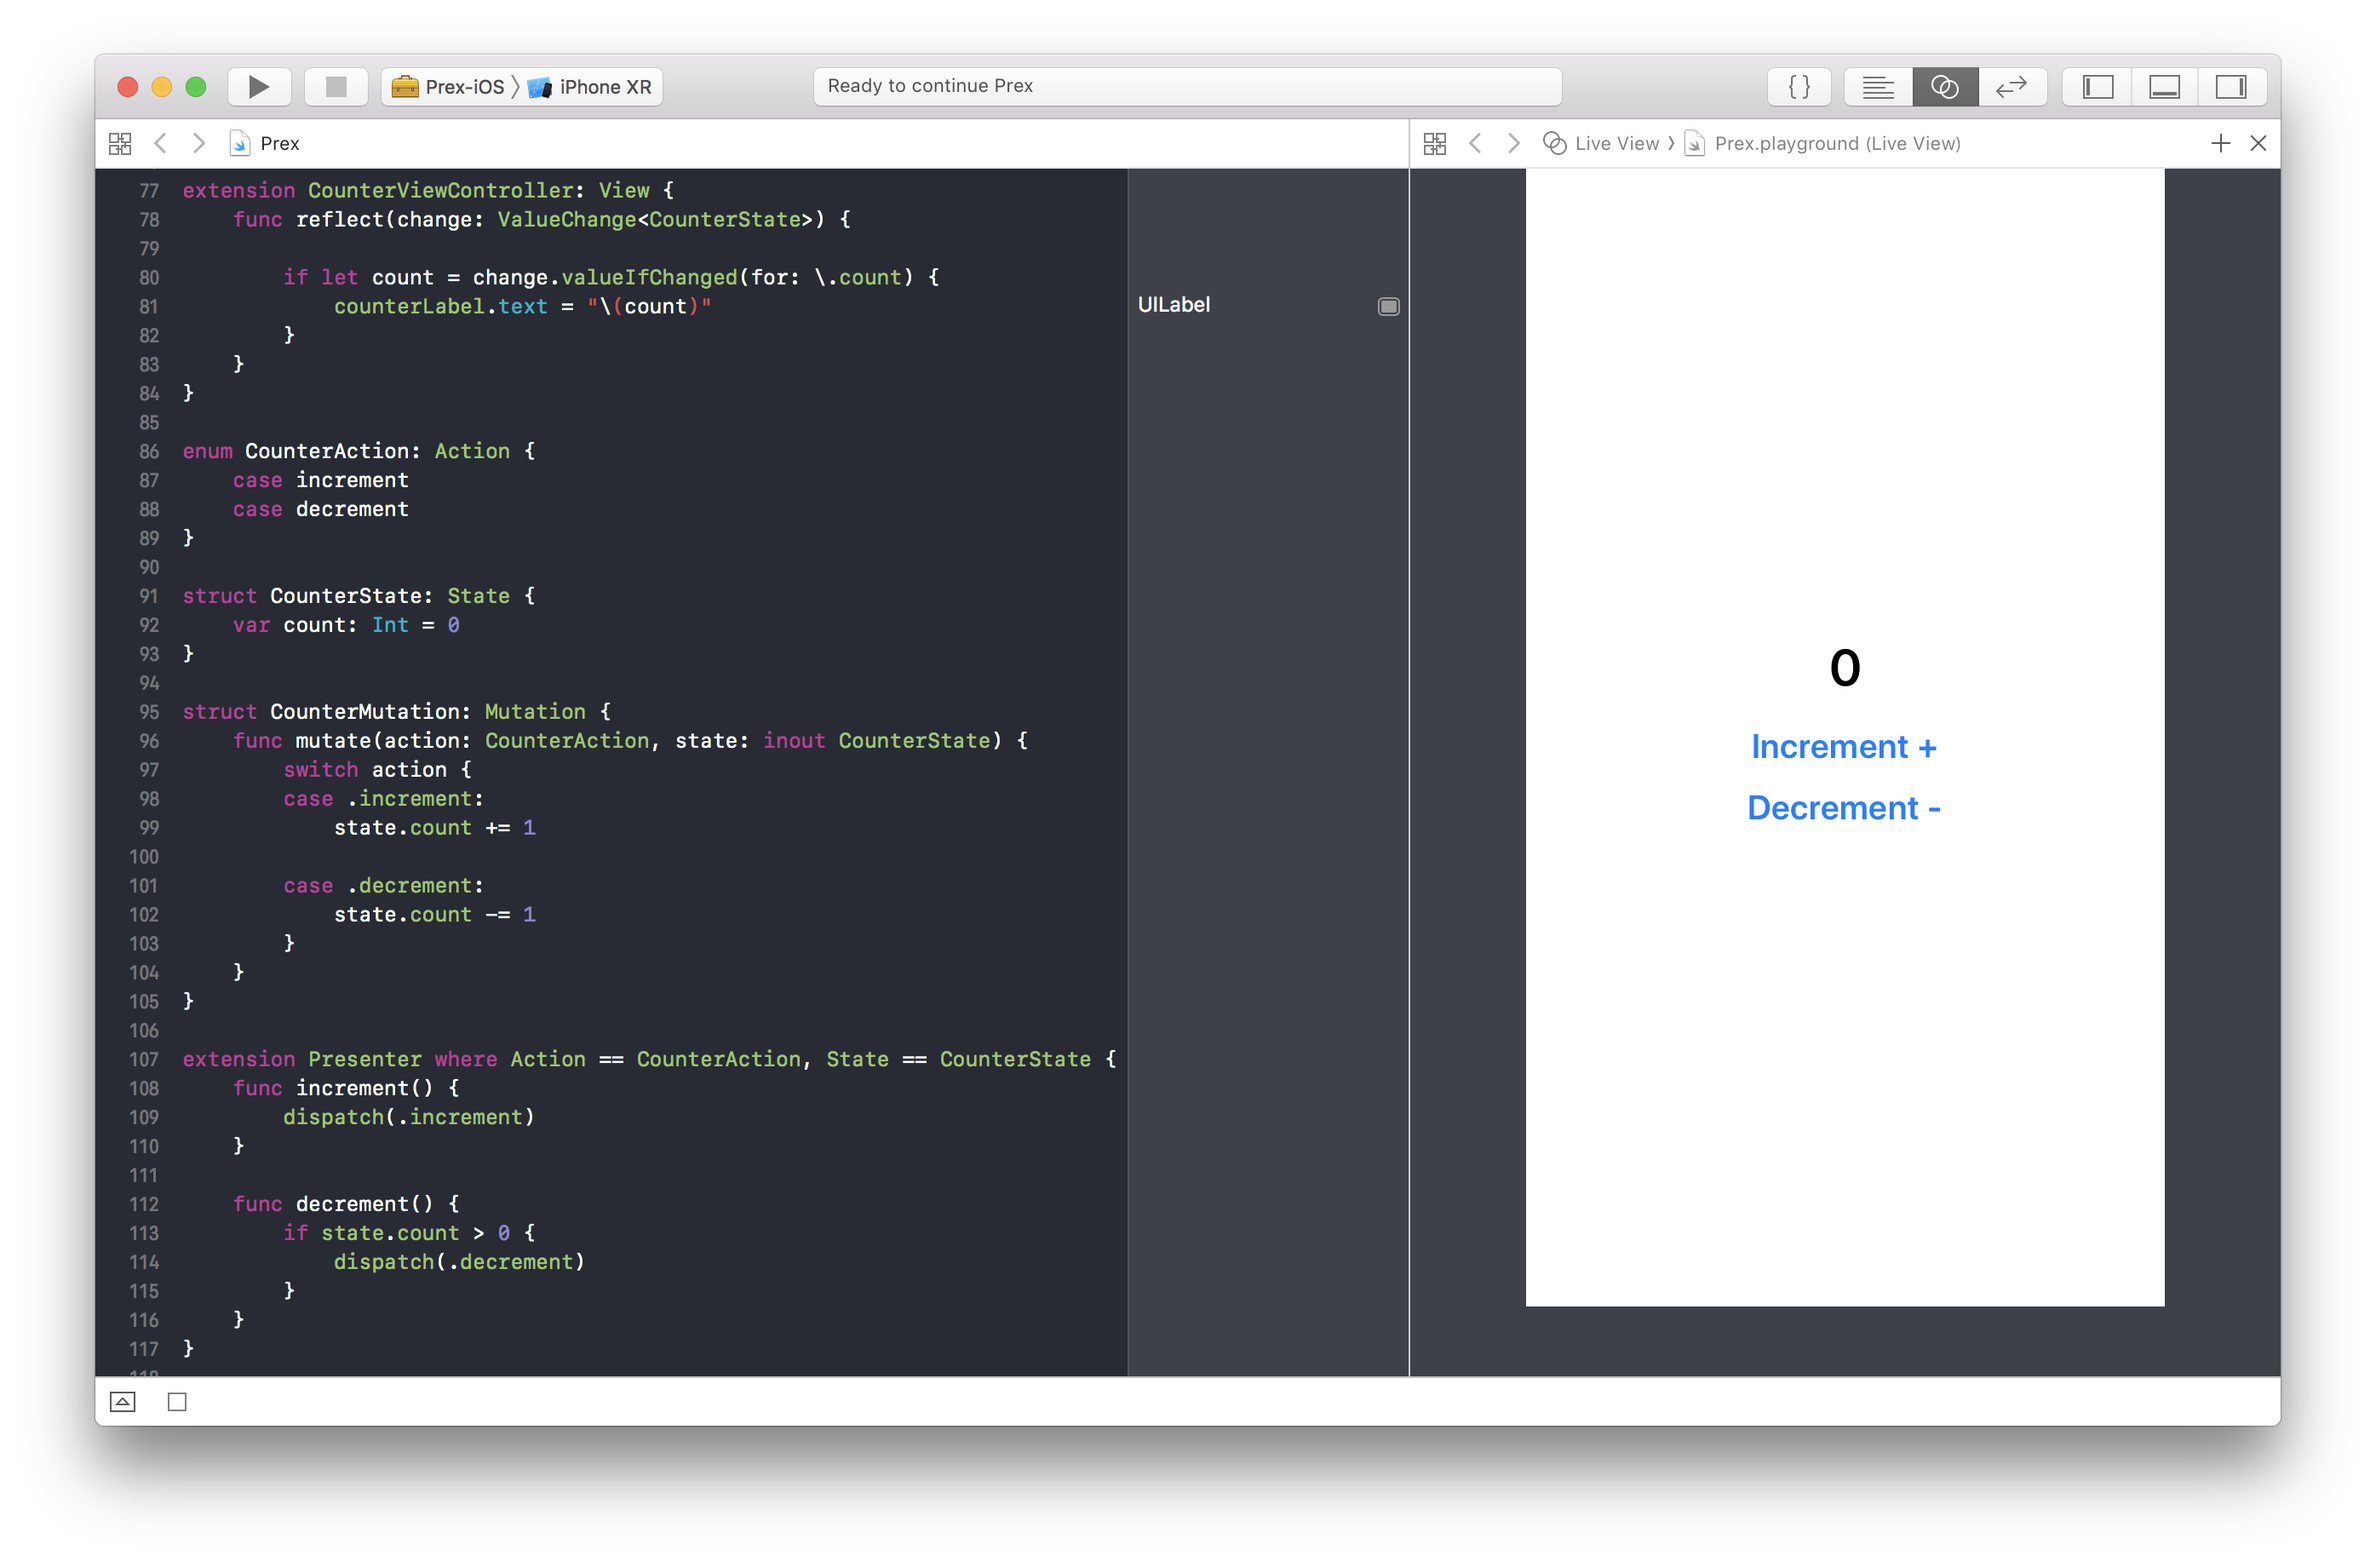
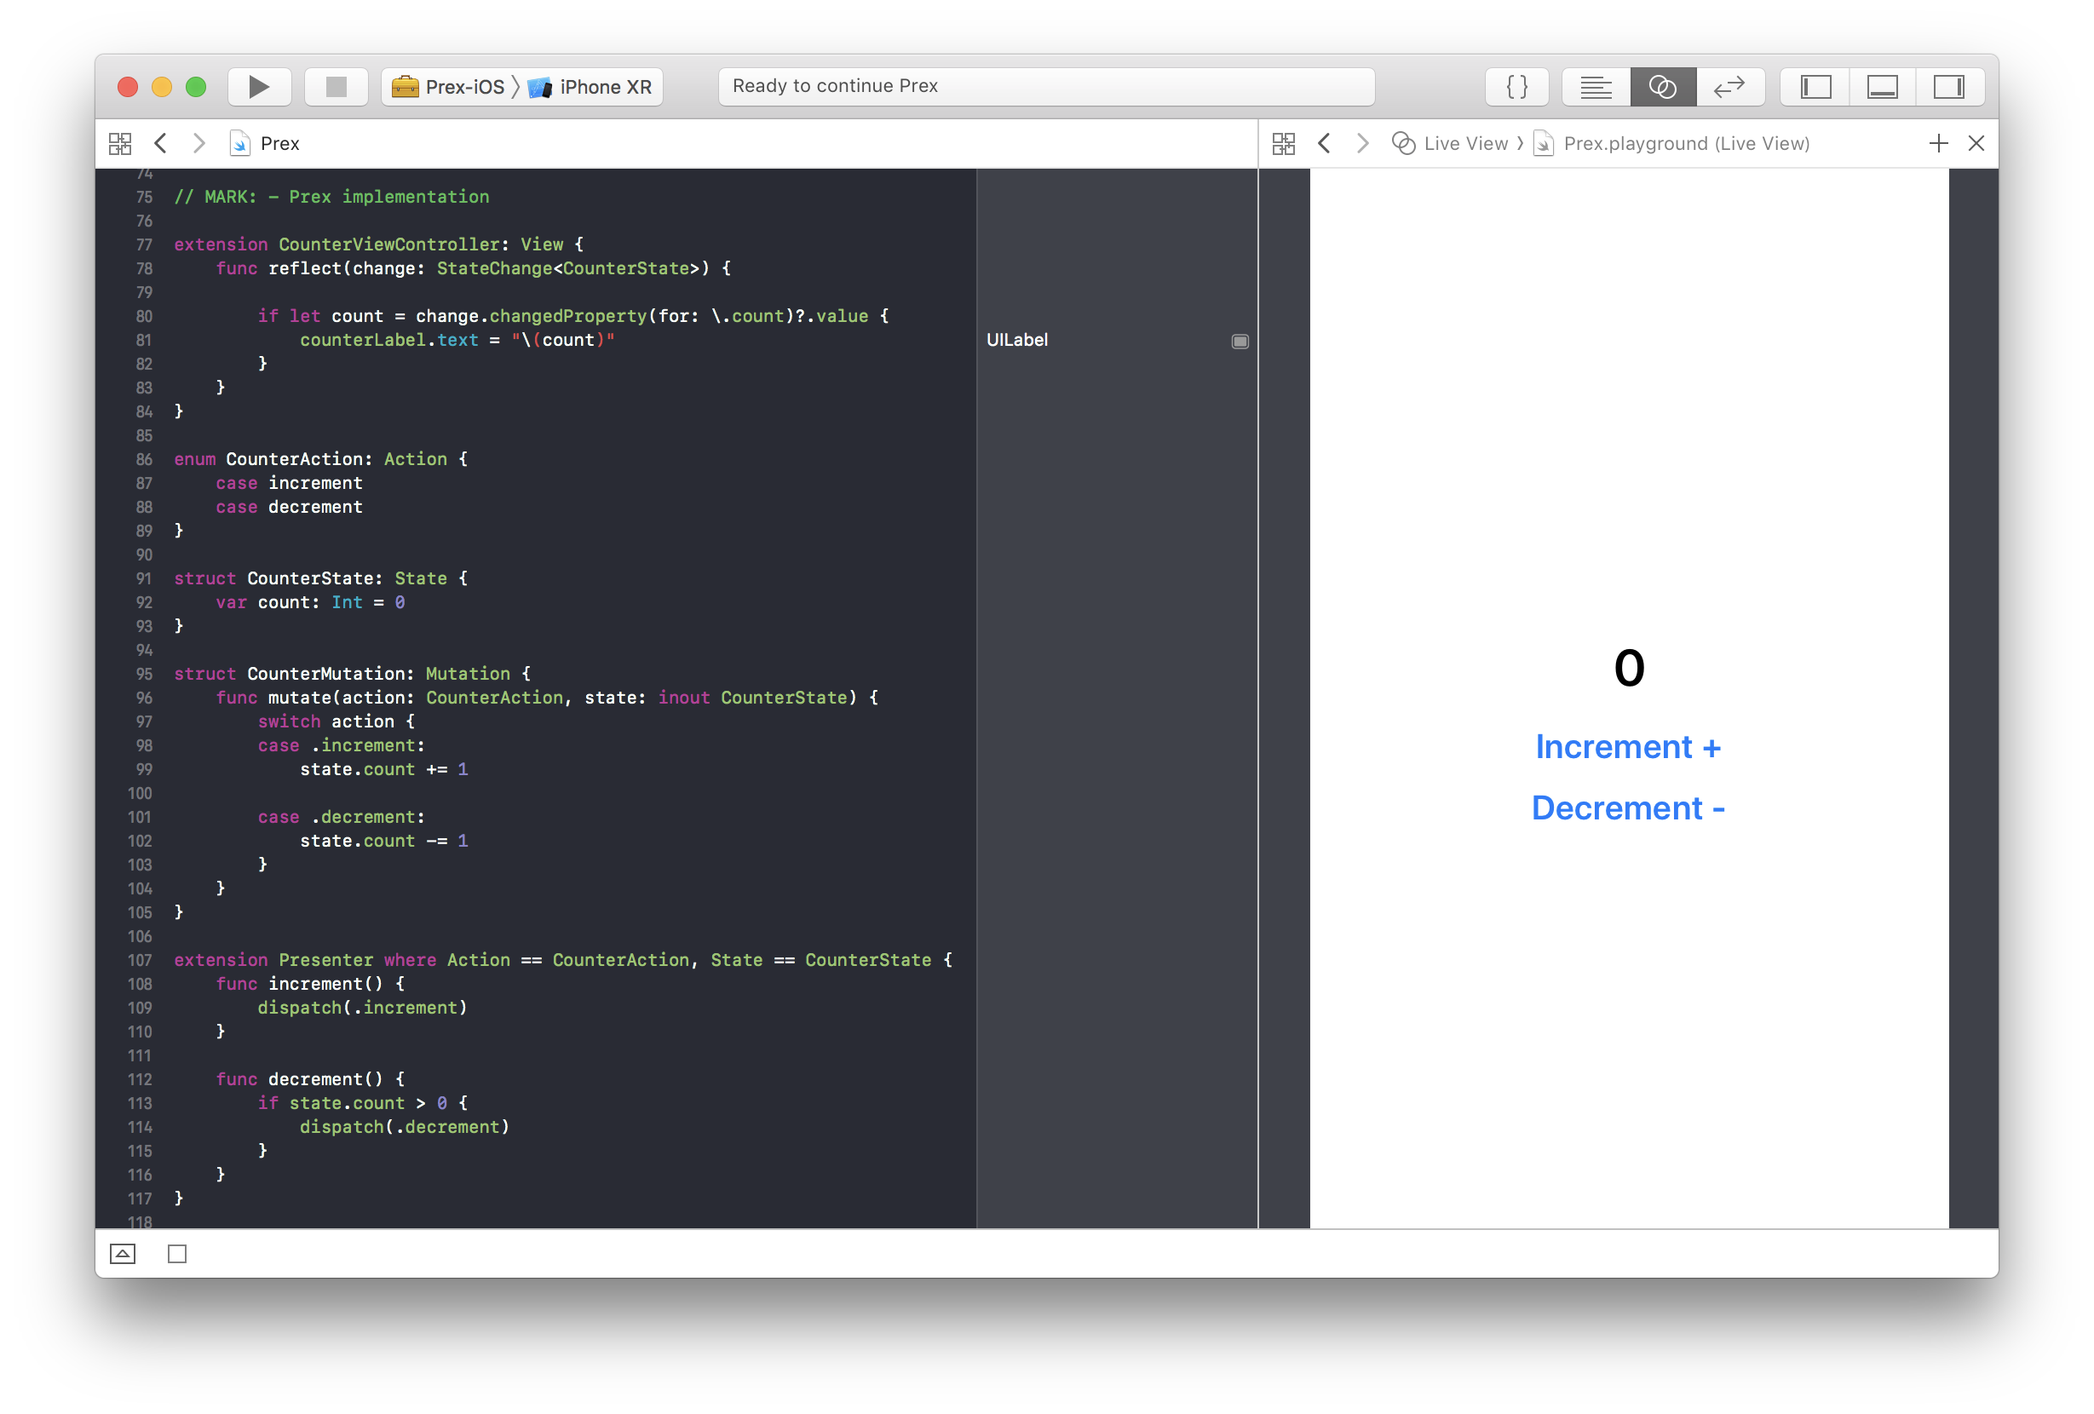
change ValueChange to StateChange

diff --git a/Sources/Prex/Flux/Store.swift b/Sources/Prex/Flux/Store.swift
@@ -27,12 +27,12 @@ public final class Store<State: Prex.State> {
 
     private var _state: State {
         didSet {
-            pubsub.publish(ValueChange(new: _state, old: oldValue))
+            pubsub.publish(StateChange(new: _state, old: oldValue))
         }
     }
 
     private let lock: NSLocking = NSRecursiveLock()
-    private let pubsub = PubSub<ValueChange<State>>()
+    private let pubsub = PubSub<StateChange<State>>()
     private let dispatcher: _AnyDispatcher
     private lazy var subscription: _AnySubscription = { fatalError("subscription has not initialized yet") }()
 
@@ -56,7 +56,7 @@ public final class Store<State: Prex.State> {
     /// Registers listeners as callback
     ///
     /// - Parameter callback: Notifies changes of state
-    public func addListener(callback: @escaping (ValueChange<State>) -> ()) -> Subscription<State> {
+    public func addListener(callback: @escaping (StateChange<State>) -> ()) -> Subscription<State> {
         let token = pubsub.subscribe(callback)
         return Subscription<State>(token: token)
     }

diff --git a/Example/PrexSample/View/Search/SearchViewController.swift b/Example/PrexSample/View/Search/SearchViewController.swift
@@ -73,13 +73,13 @@ final class SearchViewController: UIViewController {
 }
 
 extension SearchViewController: View {
-    func reflect(change: ValueChange<SearchState>) {
+    func reflect(change: StateChange<SearchState>) {
 
-        if let isEditing = change.valueIfChanged(for: \.isEditing) {
+        if let isEditing = change.changedProperty(for: \.isEditing)?.value {
             refrectEditing(isEditing: isEditing)
         }
 
-        if let new = change.valueIfChanged(for: \.repositories) {
+        if let new = change.changedProperty(for: \.repositories)?.value {
             tableView.reloadData()
 
             if new.count > 0, let old = change.old?.repositories, old.count > 0 {
@@ -88,7 +88,7 @@ extension SearchViewController: View {
             }
         }
 
-        if let repository = change.valueIfChanged(for: \.selectedRepository)?.value {
+        if let repository = change.changedProperty(for: \.selectedRepository)?.value {
             showDetail(repository: repository)
         }
     }

diff --git a/Example/PrexSample/View/Detail/DetailViewController.swift b/Example/PrexSample/View/Detail/DetailViewController.swift
@@ -43,13 +43,13 @@ final class DetailViewController: UIViewController {
 }
 
 extension DetailViewController: View {
-    func reflect(change: ValueChange<DetailState>) {
+    func reflect(change: StateChange<DetailState>) {
 
-        if let url = change.valueIfChanged(for: \.htmlURL)?.value {
+        if let url = change.changedProperty(for: \.htmlURL)?.value {
             webview.load(URLRequest(url: url))
         }
 
-        if let progress = change.valueIfChanged(for: \.progress) {
+        if let progress = change.changedProperty(for: \.progress)?.value {
             let params = presenter.progressUpdateParams(from: progress)
             UIView.animate(withDuration: 0.3) {
                 self.progressView.alpha = params.alpha
@@ -57,7 +57,7 @@ extension DetailViewController: View {
             }
         }
 
-        if let name = change.valueIfChanged(for: \.name) {
+        if let name = change.changedProperty(for: \.name)?.value {
             navigationItem.title = name
         }
     }

diff --git a/Sources/Prex/Presenter.swift b/Sources/Prex/Presenter.swift
@@ -20,7 +20,7 @@ open class Presenter<Action: Prex.Action, State: Prex.State> {
 
     private let dispatcher: Dispatcher<Action>
     private let store: Store<State>
-    private let reflectInMain: (ValueChange<State>) -> ()
+    private let reflectInMain: (StateChange<State>) -> ()
     private lazy var subscription: Subscription<State> = { fatalError("canceller has not initialized yet") }()
 
     deinit {
@@ -59,7 +59,7 @@ open class Presenter<Action: Prex.Action, State: Prex.State> {
 
     /// Reflects current state to `View` forcefully
     public func reflect() {
-        reflectInMain(ValueChange(new: state, old: nil))
+        reflectInMain(StateChange(new: state, old: nil))
     }
 }
 
@@ -73,7 +73,7 @@ private struct _WeakView<View: Prex.View> {
         self.view = view
     }
 
-    func reflect(change: ValueChange<View.State>) {
+    func reflect(change: StateChange<View.State>) {
         view?.reflect(change: change)
     }
 }

diff --git a/Sources/Prex/StateChange.swift b/Sources/Prex/StateChange.swift
@@ -1,0 +1,31 @@
+//
+//  StateChange.swift
+//  Prex
+//
+//  Created by marty-suzuki on 2018/09/29.
+//  Copyright © 2018 marty-suzuki. All rights reserved.
+//
+
+/// Contains new and old value
+public struct StateChange<State: Prex.State> {
+
+    /// New value of changes
+    public let new: State
+
+    /// Old value of changes
+    public let old: State?
+
+    /// Returns specified value when it has changed
+    public func changedProperty<Value: Equatable>(for keyPath: KeyPath<State, Value>) -> PropertyChange<Value>? {
+        let newValue = new[keyPath: keyPath]
+        return newValue == old?[keyPath: keyPath] ? nil : PropertyChange(value: newValue)
+    }
+}
+
+extension StateChange {
+
+    /// Contains a changed value of specified property
+    public struct PropertyChange<T> {
+        public let value: T
+    }
+}

diff --git a/Prex.playground/Contents.swift b/Prex.playground/Contents.swift
@@ -75,9 +75,9 @@ final class CounterViewController: UIViewController {
 // MARK: - Prex implementation
 
 extension CounterViewController: View {
-    func reflect(change: ValueChange<CounterState>) {
+    func reflect(change: StateChange<CounterState>) {
 
-        if let count = change.valueIfChanged(for: \.count) {
+        if let count = change.changedProperty(for: \.count)?.value {
             counterLabel.text = "\(count)"
         }
     }

diff --git a/Sources/Prex/Flux/View.swift b/Sources/Prex/Flux/View.swift
@@ -14,5 +14,5 @@ public protocol View: AnyObject {
     /// This method called when state has changed
     ///
     /// - Parameter change: Contains new state and old state
-    func reflect(change: ValueChange<State>)
+    func reflect(change: StateChange<State>)
 }

diff --git a/README.md b/README.md
@@ -124,8 +124,8 @@ final class CounterViewController: UIViewController {
 }
 
 extension CounterViewController: View {
-    func reflect(change: ValueChange<CounterState>) {
-        if let count = change.valueIfChanged(for: \.count) {
+    func reflect(change: StateChange<CounterState>) {
+        if let count = change.changedProperty(for: \.count)?.value {
             counterLabel.text = "\(count)"
         }
     }
@@ -206,9 +206,9 @@ You can create **MockView** like this.
 
 ```swift
 final class MockView: View {
-    var refrectParameters: ((ValueChange<CounterState>) -> ())?
+    var refrectParameters: ((StateChange<CounterState>) -> ())?
 
-    func reflect(change: ValueChange<CounterState>) {
+    func reflect(change: StateChange<CounterState>) {
         refrectParameters?(change)
     }
 }
@@ -233,7 +233,7 @@ func test_presenter_calls_reflect_of_view_when_state_changed() {
 
     let expect = expectation(description: "wait receiving ValueChange")
     view.refrectParameters = { change in
-        let count = change.valueIfChanged(for: \.count)
+        let count = change.changedProperty(for: \.count)?.value
         XCTAssertEqual(count, 1)
         expect.fulfill()
     }
@@ -334,7 +334,7 @@ Prex is available through `Swift Package Manager`. Just add the url of this repo
 
 ```Package.swift
 dependencies: [
-    .package(url: "https://github.com/marty-suzuki/Prex.git", from: "0.1.1")
+    .package(url: "https://github.com/marty-suzuki/Prex.git", from: "0.2.0")
 ]
 ```
 
